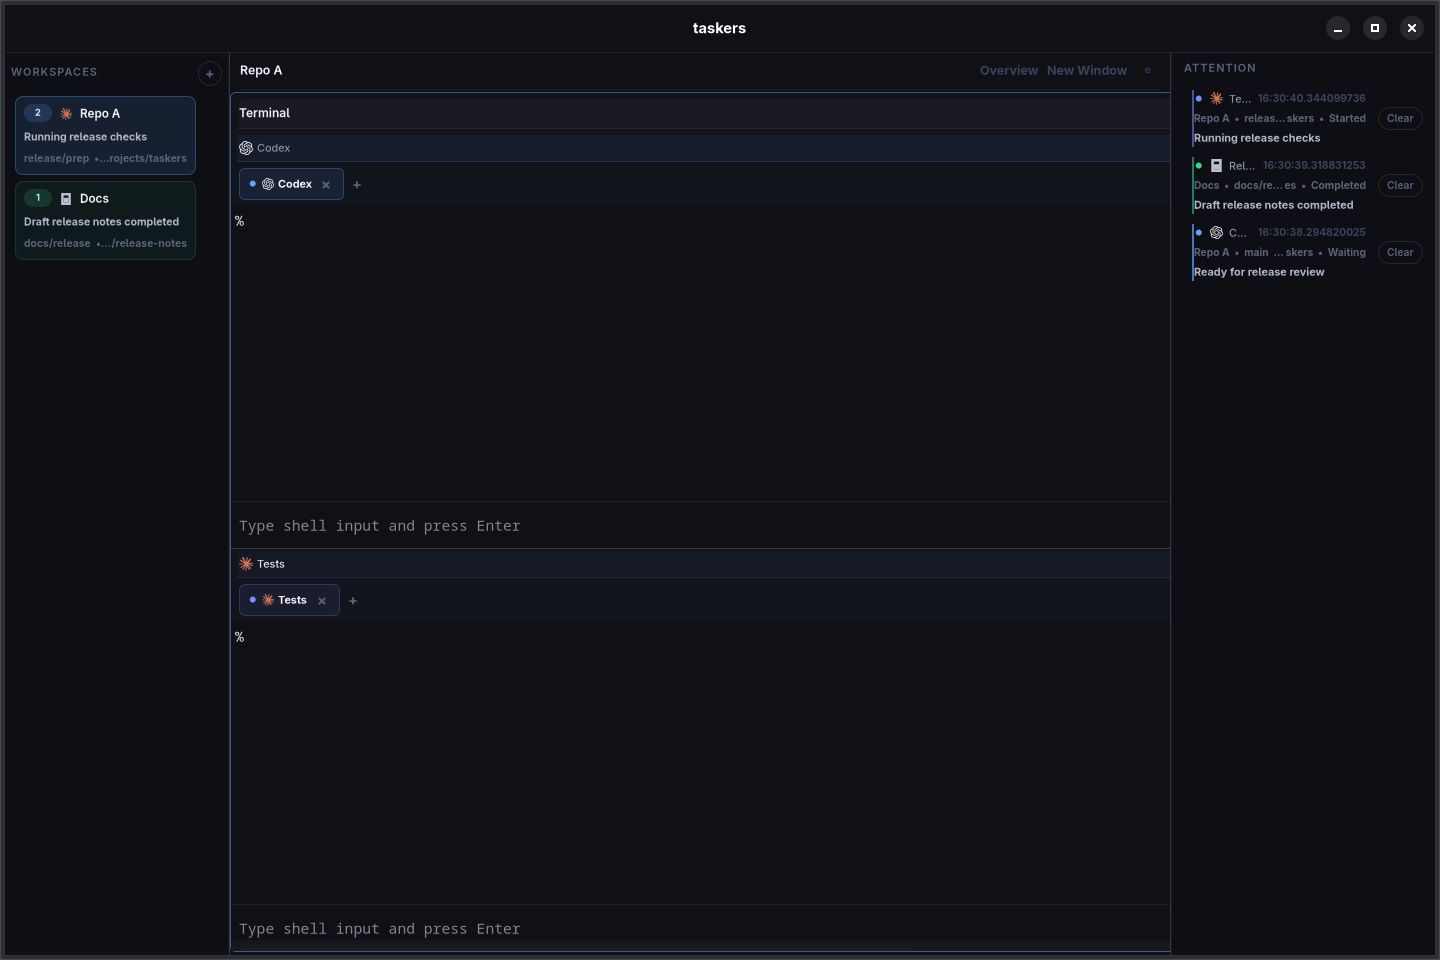
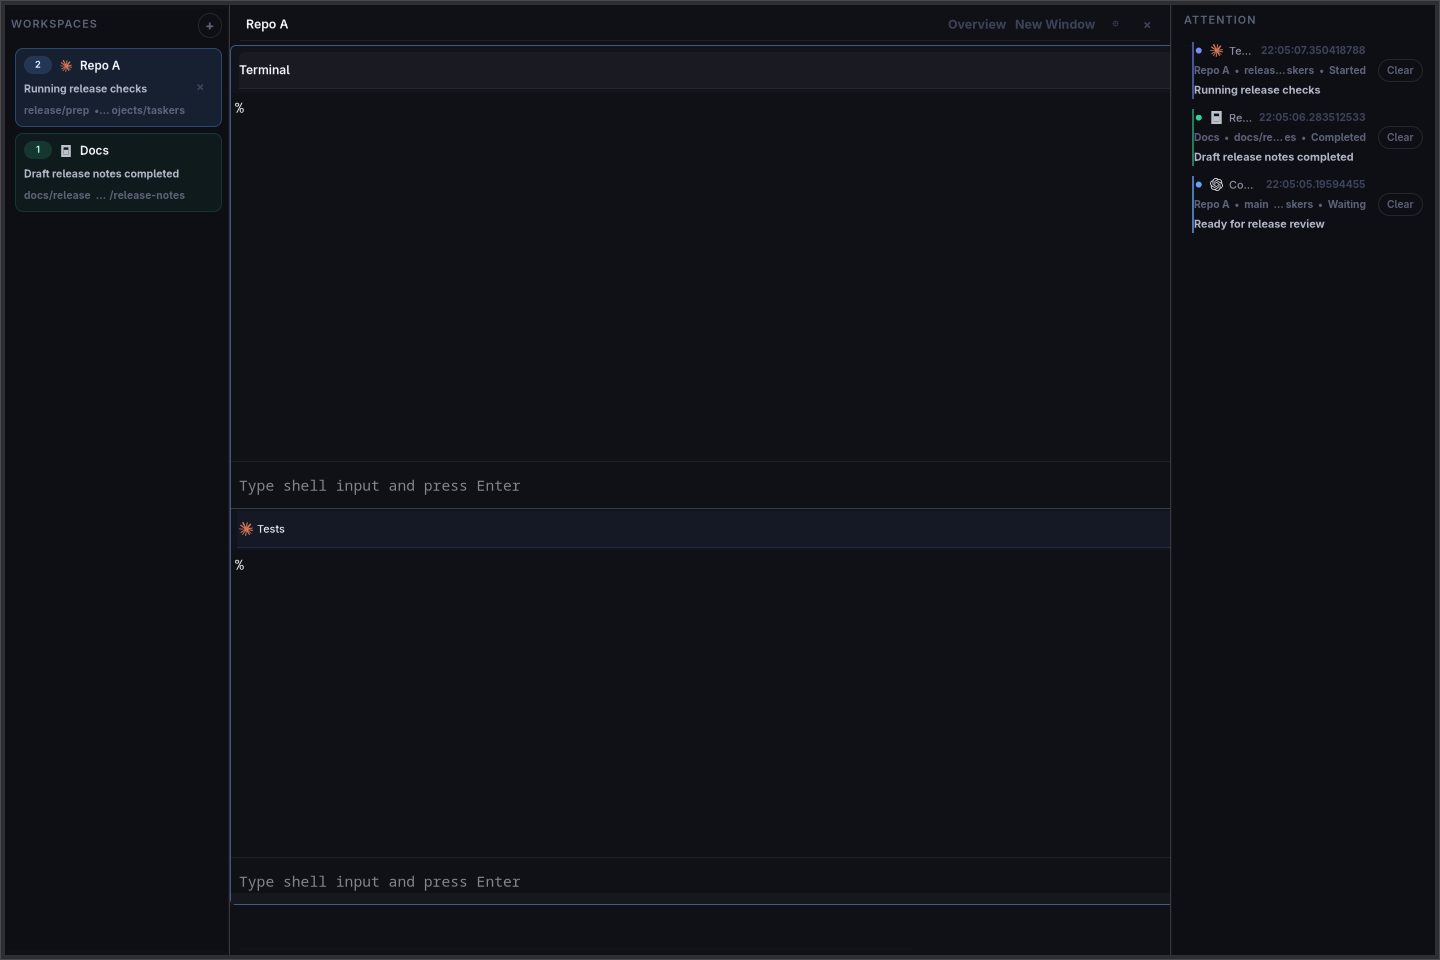
docs: refresh release screenshots

diff --git a/README.md b/README.md
@@ -1,124 +1,25 @@
 # taskers
 
-`taskers` is an agent-first terminal workspace app scaffolded around a Linux-first Rust shell, a flexible terminal backend boundary, and a Niri-like tiling model for terminal workspaces.
+Taskers is a Linux-first terminal workspace for agent-heavy work. It gives you Niri-style top-level windows, local pane splits, and an attention sidebar so active, waiting, and completed terminal work stays visible.
 
-It keeps per-agent status visible in the workspace strip, routes attention-worthy transitions into a dedicated sidebar, and lets terminal work stay organized as movable workspace windows instead of one giant split tree.
+![Taskers workspace list and attention sidebar](docs/screenshots/demo-attention.png)
 
-## Screenshots
+![Taskers split workspace window](docs/screenshots/demo-layout.png)
 
-Agent-aware workspace navigation and attention handling:
-
-![Taskers demo showing workspace cards and the attention sidebar](docs/screenshots/demo-attention.png)
-
-Grouped panes inside a workspace window, with visible top-level controls and release-tracking context:
-
-![Taskers demo showing a split workspace window with visible top-level controls](docs/screenshots/demo-layout.png)
-
-## Tiling model
-
-- Each workspace is a scrollable canvas of top-level terminal windows rather than one monolithic fullscreen split tree.
-- Creating a new terminal window places it next to the active one in a cardinal direction, producing the same "keep moving through the workspace" feel as Niri-style tiling.
-- Each top-level window owns its own split tree, so related panes stay grouped locally without flattening the whole workspace into one layout.
-- Directional focus prefers neighboring top-level windows first, then falls back to pane-to-pane movement inside the active window.
-- Workspace viewport position is persisted, and overview mode zooms the current workspace out to fit the full arrangement on screen.
-
-## Workspace layout
-
-- `taskers-domain`: UI-agnostic workspace, pane, layout, signal, and persistence model
-- `taskers-control`: local control protocol, JSON framing, in-memory controller, and Unix socket server/client
-- `taskers-runtime`: PTY/session foundation and explicit OSC signal parser
-- `taskers-ghostty`: terminal backend abstraction and libghostty probe/fallback surface
-- `taskers-cli`: CLI for querying and mutating the app over the local control socket
-- `taskers-app`: GTK4/libadwaita shell that owns controller state, session persistence, and the local control socket
-
-## Install from crates.io
+## Try it
 
 ```bash
 cargo install taskers --locked
-```
-
-On Linux, the first launch bootstraps the version-matched Ghostty runtime bundle into your local XDG data directory when needed.
-
-```bash
 taskers --demo
 ```
 
-## Quick start
+The first launch bootstraps the matching Ghostty runtime bundle when needed.
 
-```bash
-cargo run -p taskers
-```
+## Develop
 
 ```bash
 cargo run -p taskers -- --demo
-```
-
-```bash
-cargo run -p taskers-cli -- query status --socket /tmp/taskers.sock
-```
-
-```bash
-cargo run -p taskers-cli -- pane new-window --workspace <workspace-id> --direction right
-```
-
-```bash
-cargo run -p taskers-cli -- pane split --workspace <workspace-id> --axis vertical
-```
-
-## Repository setup
-
-If you use `jj` in this repository, run the repo setup script once per clone:
-
-```bash
-./scripts/setup-jj.sh
-```
-
-The vendored Ghostty tree includes approved upstream assets larger than Jujutsu's default
-1 MiB snapshot limit. The setup script raises the repo-local limit just enough to snapshot
-the current vendored tree without changing your global `jj` behavior.
-
-When refreshing `vendor/ghostty`, run the large-file check before pushing:
-
-```bash
-./scripts/check_ghostty_vendor_large_files.sh
-```
-
-This fails if new files over 1 MiB appear outside the approved Ghostty allowlist, or if an
-approved file grows past the repo-local `jj` limit.
-
-## Release Prep
-
-For the publish checklist and screenshot refresh workflow, see [docs/release.md](docs/release.md).
-
-## UI smoke test
-
-Run the GTK/Ghostty smoke harness with:
-
-```bash
 ./scripts/smoke_taskers_ui.sh
 ```
 
-This builds the local debug binaries, launches `taskers-app` under `Xvfb`, and verifies that
-the app stays up long enough to accept a control-socket command.
-
-## Install locally
-
-```bash
-cargo run -p taskers-cli -- install
-```
-
-This installs the `taskers` binary into Cargo's bin directory and writes a desktop entry plus icon into your local XDG application directories so it shows up in Linux app launchers.
-
-## Current status
-
-This foundation now includes:
-
-- domain model for scrollable workspaces, top-level workspace windows, nested pane layout trees, attention state, and persistence snapshots
-- explicit control protocol and Unix socket transport for workspace, window, pane, and viewport updates
-- PTY spawning foundation and explicit OSC marker parsing
-- GTK shell with live workspace switching, overview mode, directional workspace-window focus, split actions, autosave, agent-aware sidebars, and an app-hosted control server
-- real shell sessions per terminal pane, with live output streaming and input-on-enter in the pane UI
-- session load/save support with configurable session and socket paths, including persisted workspace viewport state
-- registry installs that bootstrap the matching Ghostty runtime assets on first launch
-
-The actual libghostty embedding work is intentionally isolated behind `taskers-ghostty` so the app shell and domain logic stay stable if the integration strategy changes.
+Release checklist: [docs/release.md](docs/release.md)
